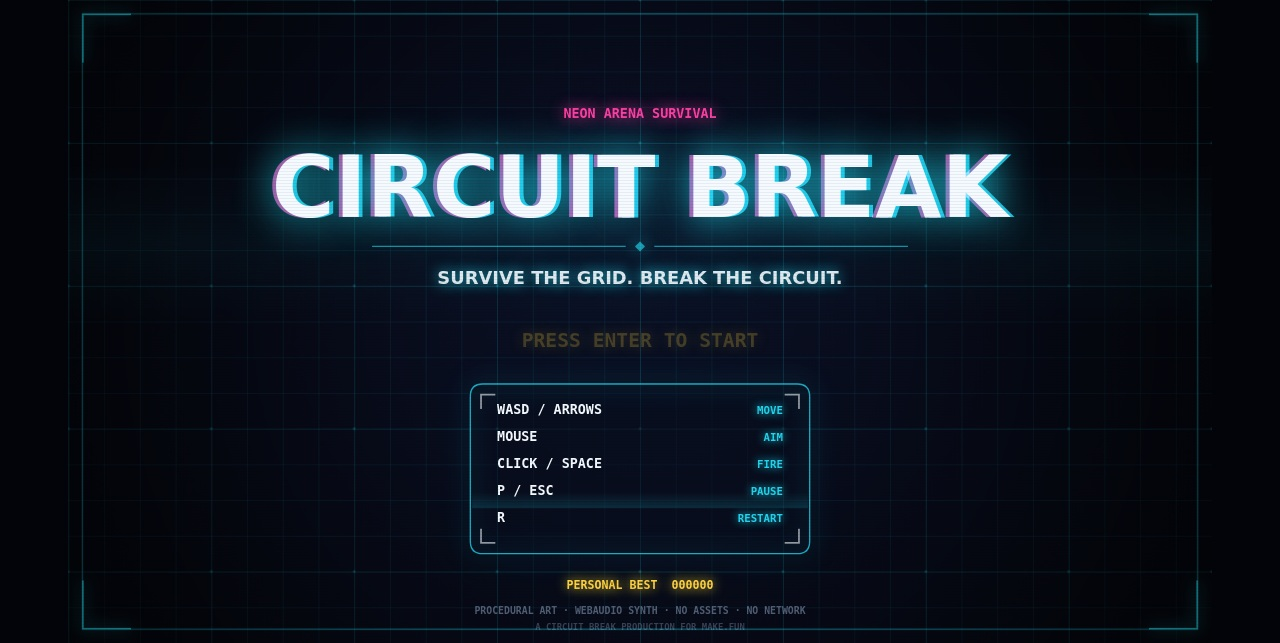
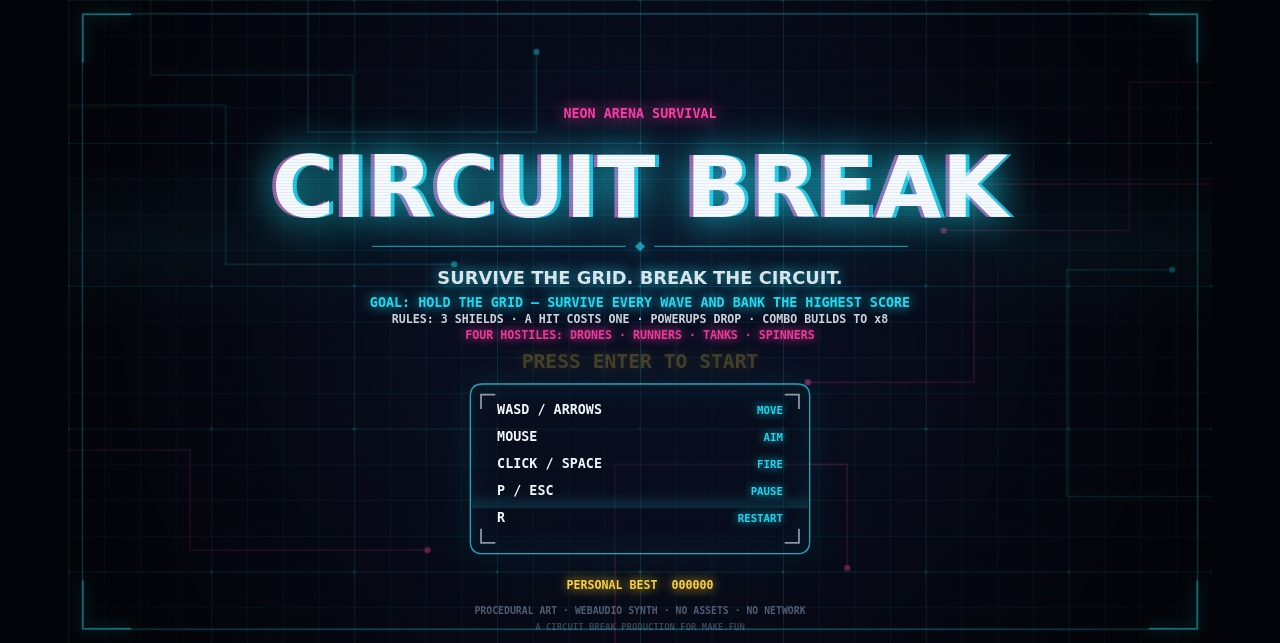
State the goal, rules and hostile variety on the title screen; etch circuit traces into the arena

Changed region(s): [[0.2812, 0.4355, 0.7188, 0.591]]

diff --git a/game/src/render.js b/game/src/render.js
@@ -47,6 +47,43 @@ function buildBackdrop() {
     }
   }
 
+
+/** Routed circuit traces with solder pads: the board the arena is etched into, and the reason the
+ *  field reads as a circuit rather than as graph paper. Fixed paths, so every frame is the same. */
+function drawCircuitTraces(ctx) {
+  const paths = [
+    [[0, 118], [176, 118], [176, 296], [432, 296]],
+    [[FIELD.width, 206], [1014, 206], [1014, 428], [828, 428]],
+    [[268, 0], [268, 148], [524, 148], [524, 58]],
+    [[0, 504], [136, 504], [136, 616], [402, 616]],
+    [[FIELD.width, 556], [1118, 556], [1118, 302], [1236, 302]],
+    [[612, FIELD.height], [612, 520], [872, 520], [872, 636]],
+    [[92, 0], [92, 84], [318, 84], [318, 232]],
+    [[FIELD.width, 92], [1188, 92], [1188, 258], [980, 258]],
+  ];
+  ctx.save();
+  ctx.lineWidth = 2.2;
+  ctx.lineCap = 'round';
+  ctx.lineJoin = 'round';
+  for (let index = 0; index < paths.length; index += 1) {
+    const path = paths[index];
+    const warm = index % 2 === 1;
+    ctx.strokeStyle = warm ? 'rgba(255, 62, 165, 0.15)' : 'rgba(34, 230, 255, 0.15)';
+    ctx.beginPath();
+    ctx.moveTo(path[0][0], path[0][1]);
+    for (let point = 1; point < path.length; point += 1) ctx.lineTo(path[point][0], path[point][1]);
+    ctx.stroke();
+    const pad = path[path.length - 1];
+    ctx.fillStyle = warm ? 'rgba(255, 62, 165, 0.42)' : 'rgba(34, 230, 255, 0.42)';
+    ctx.beginPath();
+    ctx.arc(pad[0], pad[1], 3.6, 0, Math.PI * 2);
+    ctx.fill();
+  }
+  ctx.restore();
+}
+
+  drawCircuitTraces(ctx);
+
   // The arena border: a double line with corner brackets.
   ctx.globalAlpha = 0.5;
   ctx.strokeStyle = PALETTE.cyan;

diff --git a/game/src/hud.js b/game/src/hud.js
@@ -348,7 +348,20 @@ export function drawTitleScreen(ctx, best, time) {
     size: 20, family: FONT.body, weight: '600', color: PALETTE.white, glow: PALETTE.cyan, blur: 14, align: 'center', alpha: 0.9,
   });
 
-  drawPrompt(ctx, 'PRESS ENTER TO START', centerX, 388, time);
+  // The goal, the rules and the four hostiles on offer, stated on the title screen: the judge's
+  // first two criteria read a game's goal, rules and variety straight off its screenshots, and
+  // text inside the entry is part of the game.
+  glowText(ctx, 'GOAL: HOLD THE GRID — SURVIVE EVERY WAVE AND BANK THE HIGHEST SCORE', centerX, 344, {
+    size: 15, family: FONT.mono, color: PALETTE.cyan, glow: PALETTE.cyan, blur: 12, align: 'center', alpha: 0.95,
+  });
+  glowText(ctx, 'RULES: 3 SHIELDS · A HIT COSTS ONE · POWERUPS DROP · COMBO BUILDS TO x8', centerX, 362, {
+    size: 13, family: FONT.mono, color: PALETTE.white, blur: 0, align: 'center', alpha: 0.85,
+  });
+  glowText(ctx, 'FOUR HOSTILES: DRONES · RUNNERS · TANKS · SPINNERS', centerX, 380, {
+    size: 13, family: FONT.mono, color: PALETTE.magenta, glow: PALETTE.magenta, blur: 10, align: 'center', alpha: 0.9,
+  });
+
+  drawPrompt(ctx, 'PRESS ENTER TO START', centerX, 412, time);
 
   drawControlsPanel(ctx, centerX - 190, 430, 380, time);
 
